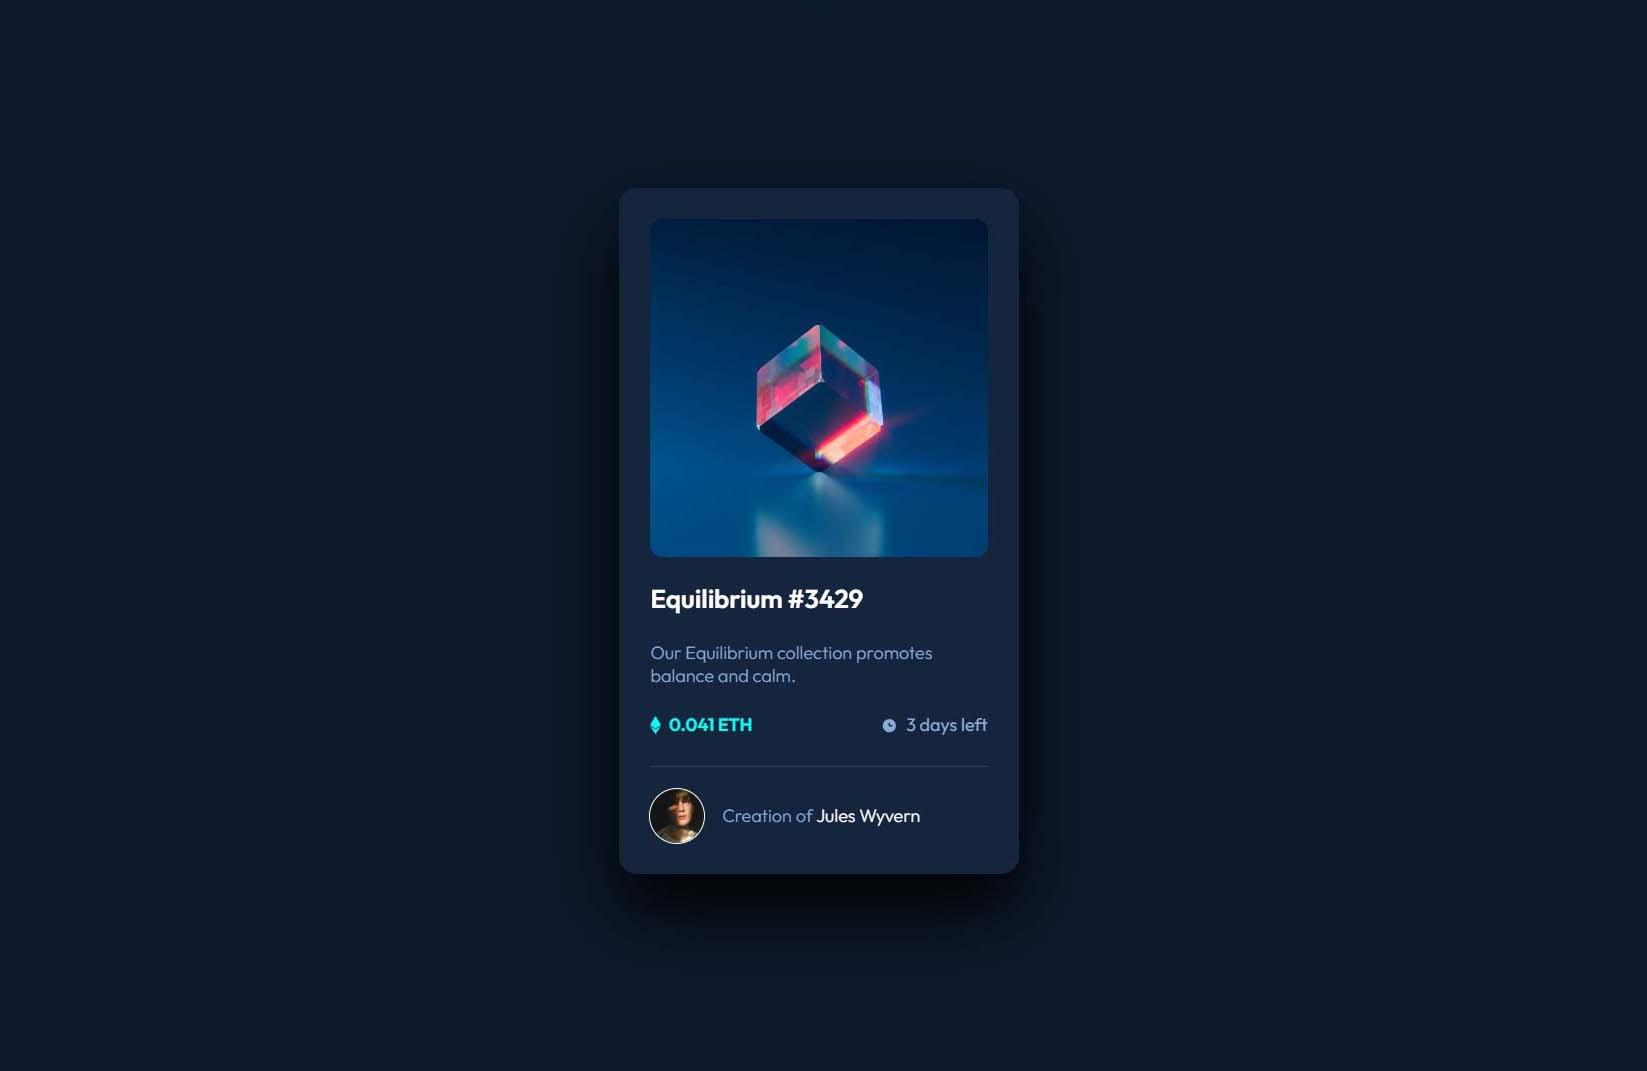
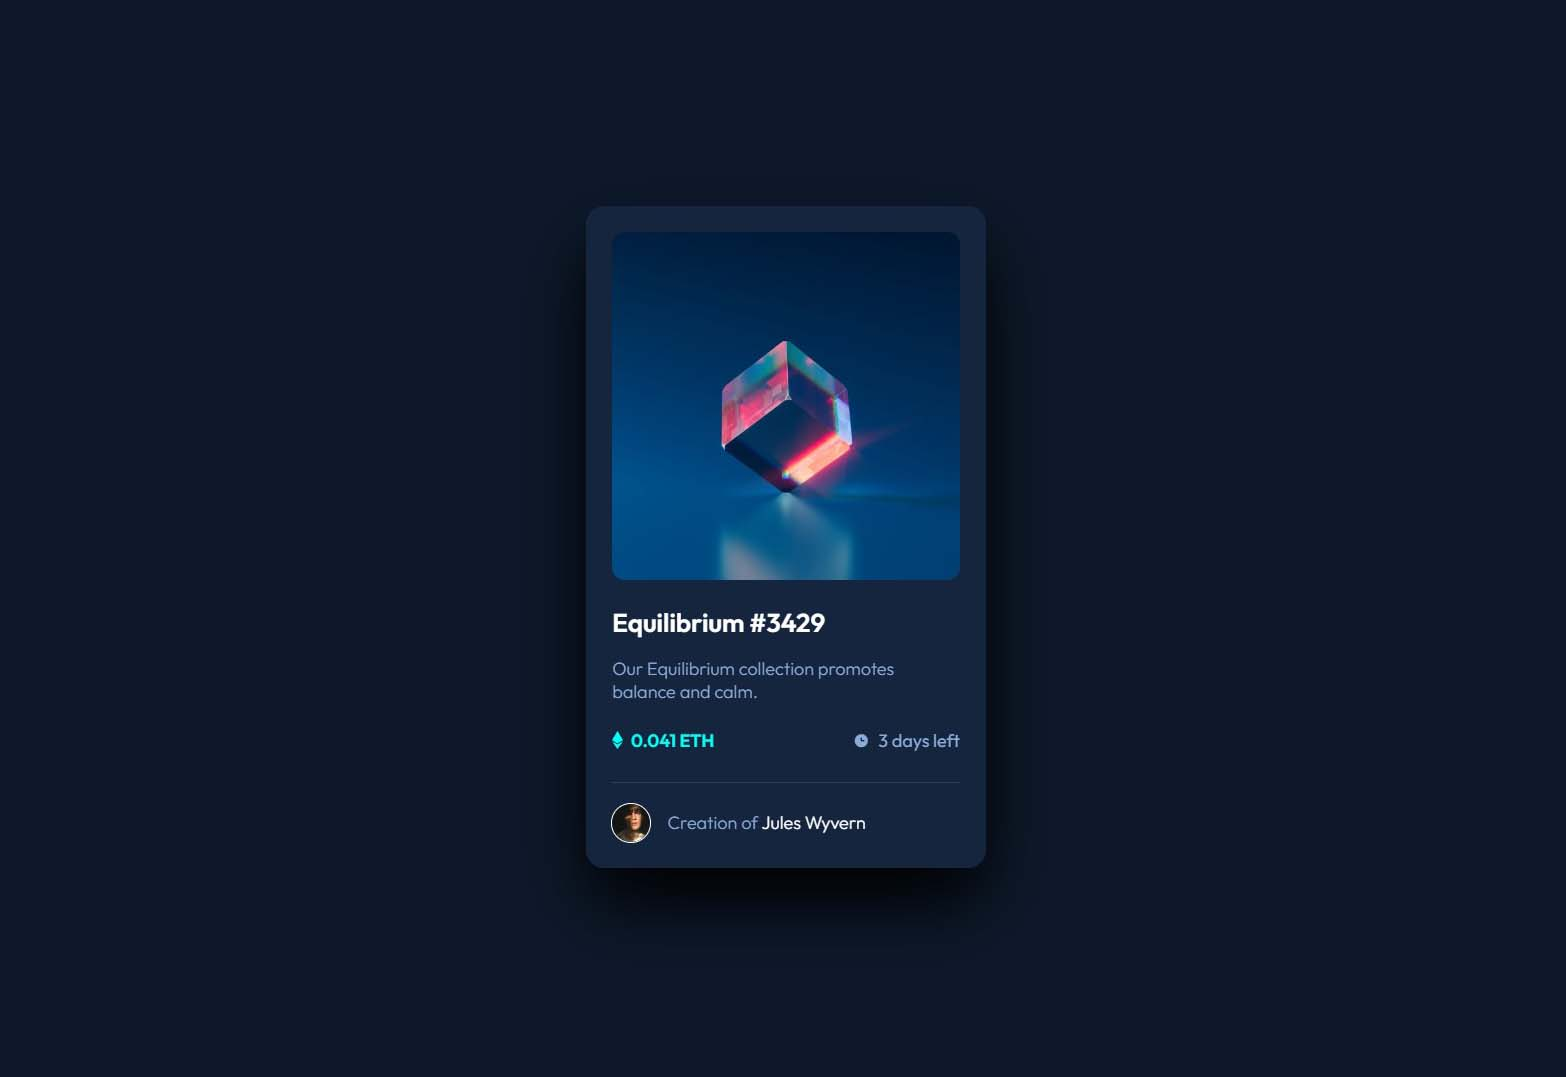
minor changes in layout

Changed region(s): [[0.3678, 0.1849, 0.6437, 0.8011], [0.3678, 0.7395, 0.613, 0.8319]]

diff --git a/style.css b/style.css
@@ -35,9 +35,9 @@ a:visited {
 }
 
 .card {
-  width: 80%;
+  width: 90%;
   max-width: 22.186rem;
-  padding: 1.728rem;
+  padding: 1.44rem;
   border-radius: 1rem;
 }
 
@@ -69,7 +69,7 @@ a:visited {
 
 .card h1 {
   align-self: flex-start;
-  margin: 1.44rem 0;
+  margin: 1.44rem 0 1rem 0;
 }
 
 .price-info {
@@ -100,7 +100,7 @@ a:visited {
 
 .avatar {
   width: 100%;
-  max-width: 2.986rem;
+  max-width: 2.074rem;
   outline: 1px solid var(--white);
   border-radius: 50%;
 }
